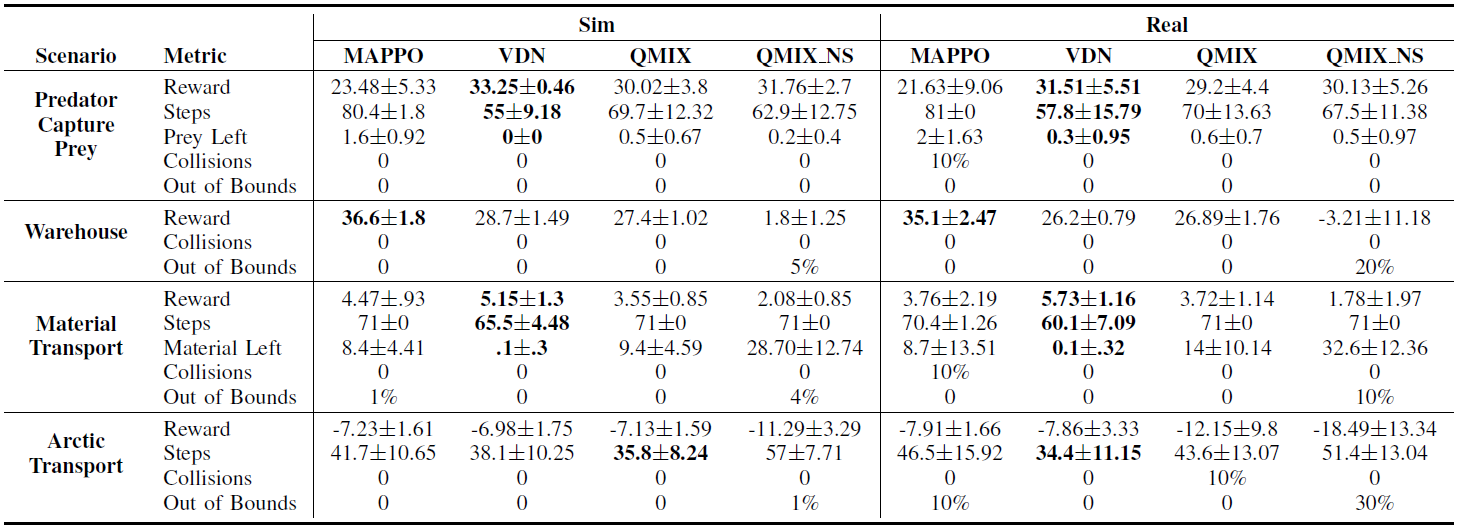
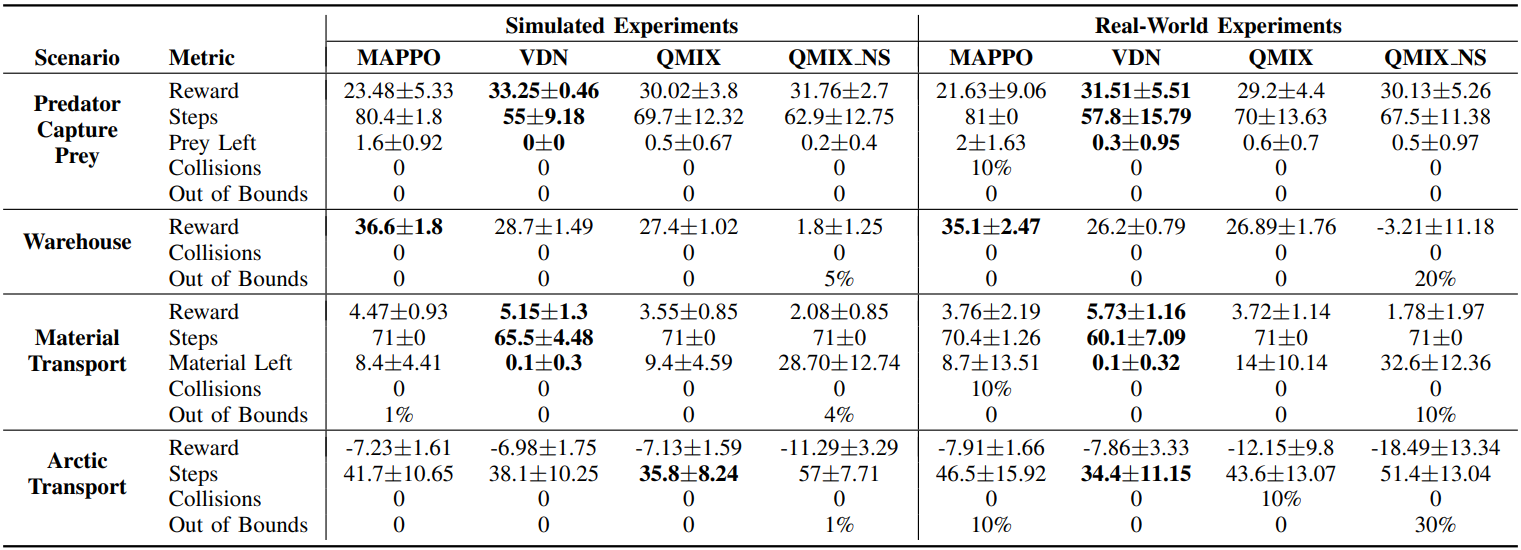
updated demo and paper link, results img

Changed region(s): [[0.0, 0.0, 1.0, 1.0]]

diff --git a/README.md b/README.md
@@ -6,7 +6,7 @@
 [Meher S. Nigam](https://github.com/ShashwatNigam99),
 [Harish Ravichandar](https://harishravichandar.com/)
 
-[📄 Paper](assets/paper.pdf) &nbsp;&nbsp;&nbsp; [💻 Code](https://github.com/ShashwatNigam99/MARBLER) &nbsp;&nbsp;&nbsp; [📁 Supplementary Material](assets/supplementary.pdf)
+[📄 Paper](https://arxiv.org/abs/2307.03891) &nbsp;&nbsp;&nbsp; [💻 Code](https://github.com/ShashwatNigam99/MARBLER) &nbsp;&nbsp;&nbsp; [📁 Supplementary Material](assets/supplementary.pdf)
 
 ## About 
 
@@ -45,24 +45,26 @@ We evaluated MAPPO, QMIX, VDN, and QMIX_NS in 4 scenarios using MARBLER. Overall
 </div>
 
 <div align="center">
-  <small><em>The mean returns and standard deviations of each algorithm in each scenario. The simulated results was taken over 100 episodes and the results from real robots was taken across 10 episodes.</em></small>
+  <small><em>The mean returns and standard deviations of each algorithm in each scenario. The simulated results were taken over 100 episodes and the results from real robots were taken across 10 episodes.</em></small>
 </div>
 
 <br>
 
 **The videos of the test runs on the Robotarium test-bed can be viewed [here](https://docs.google.com/spreadsheets/d/11ik1Mev0VpYFrSt2TKxVTGL1W3BIvH7rda5MYRXWxxI/edit?usp=sharing).**
 
-## [Demo](https://www.youtube.com/embed/[placeholder])
+## [Demo](https://www.youtube.com/embed/kkYeUcl-vbY)
 
-<iframe width="560" height="315" src="https://www.youtube.com/embed/[placeholder]" frameborder="0" allowfullscreen></iframe>
+<iframe width="560" height="315" src="https://www.youtube.com/embed/kkYeUcl-vbY" frameborder="0" allowfullscreen></iframe>
 
 ## Citation
 ```
-@misc{Torbati2023MARBLER,
-  title={MARBLER: An Open Platform for Standardized Evaluation of Multi-Robot Reinforcement Learning Algorithms},
-  author={Reza J. Torbati and Shubham Lohiya and Shivika Singh and Meher S. Nigam and Harish Ravichandar},
-  journal={arXiv preprint arXiv:2206.XXXXX},
-  year={2023}
+@misc{torbati2023marbler,
+      title={MARBLER: An Open Platform for Standarized Evaluation of Multi-Robot Reinforcement Learning Algorithms}, 
+      author={Reza Torbati and Shubham Lohiya and Shivika Singh and Meher S. Nigam and Harish Ravichandar},
+      year={2023},
+      eprint={2307.03891},
+      archivePrefix={arXiv},
+      primaryClass={cs.RO}
 }
 ```
 
